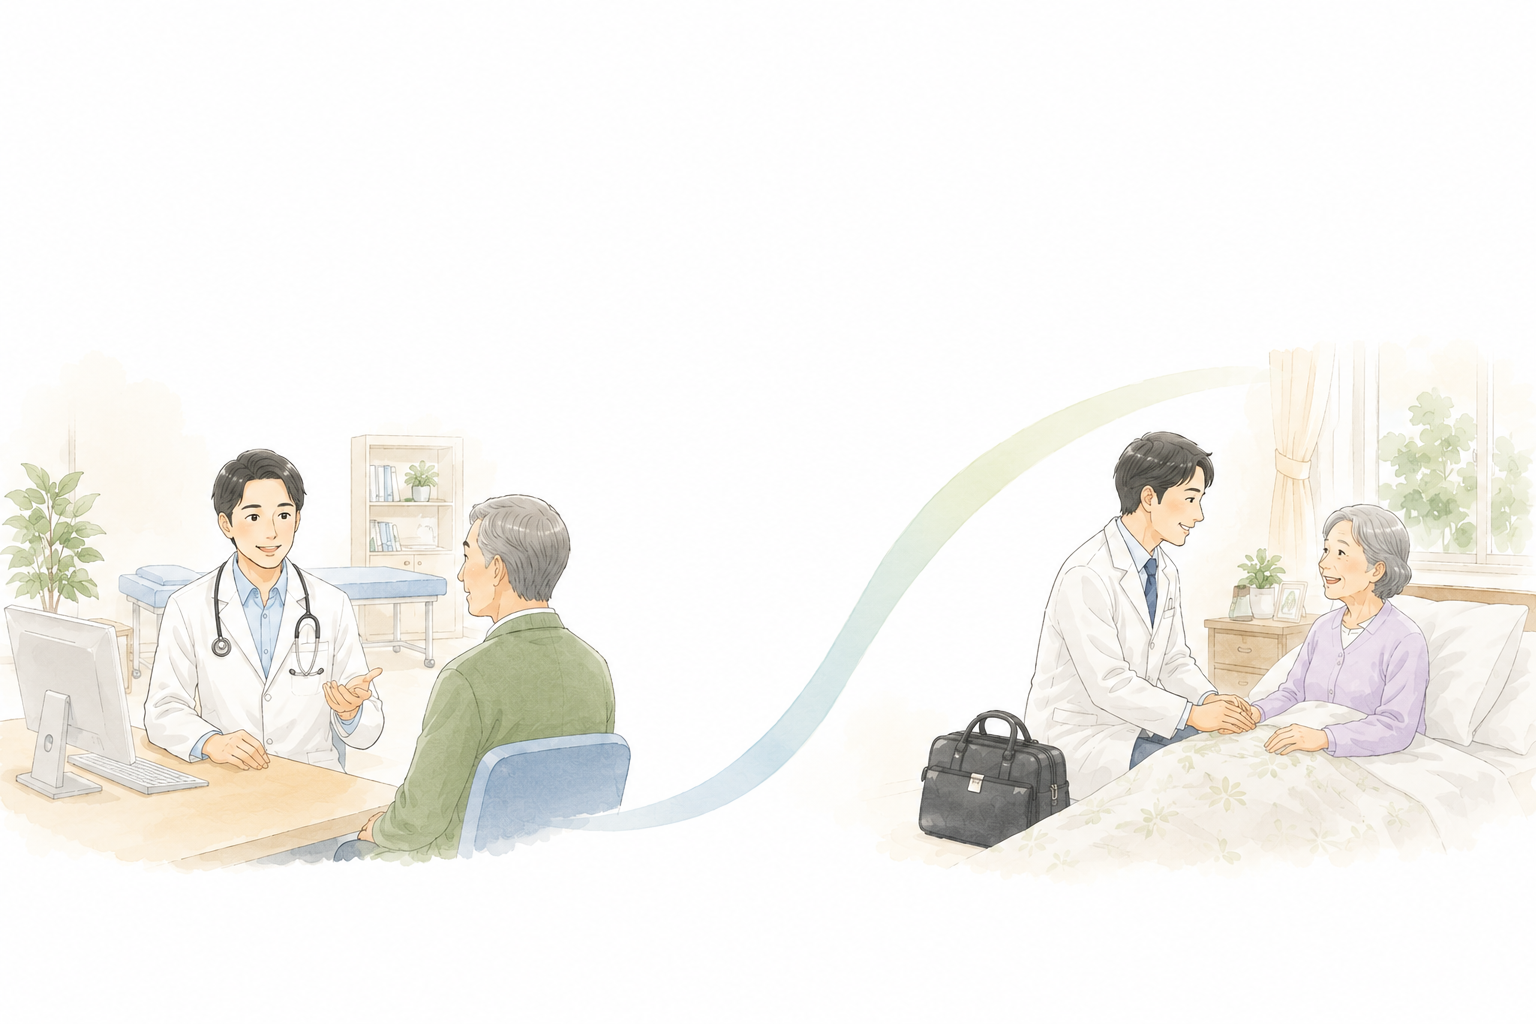
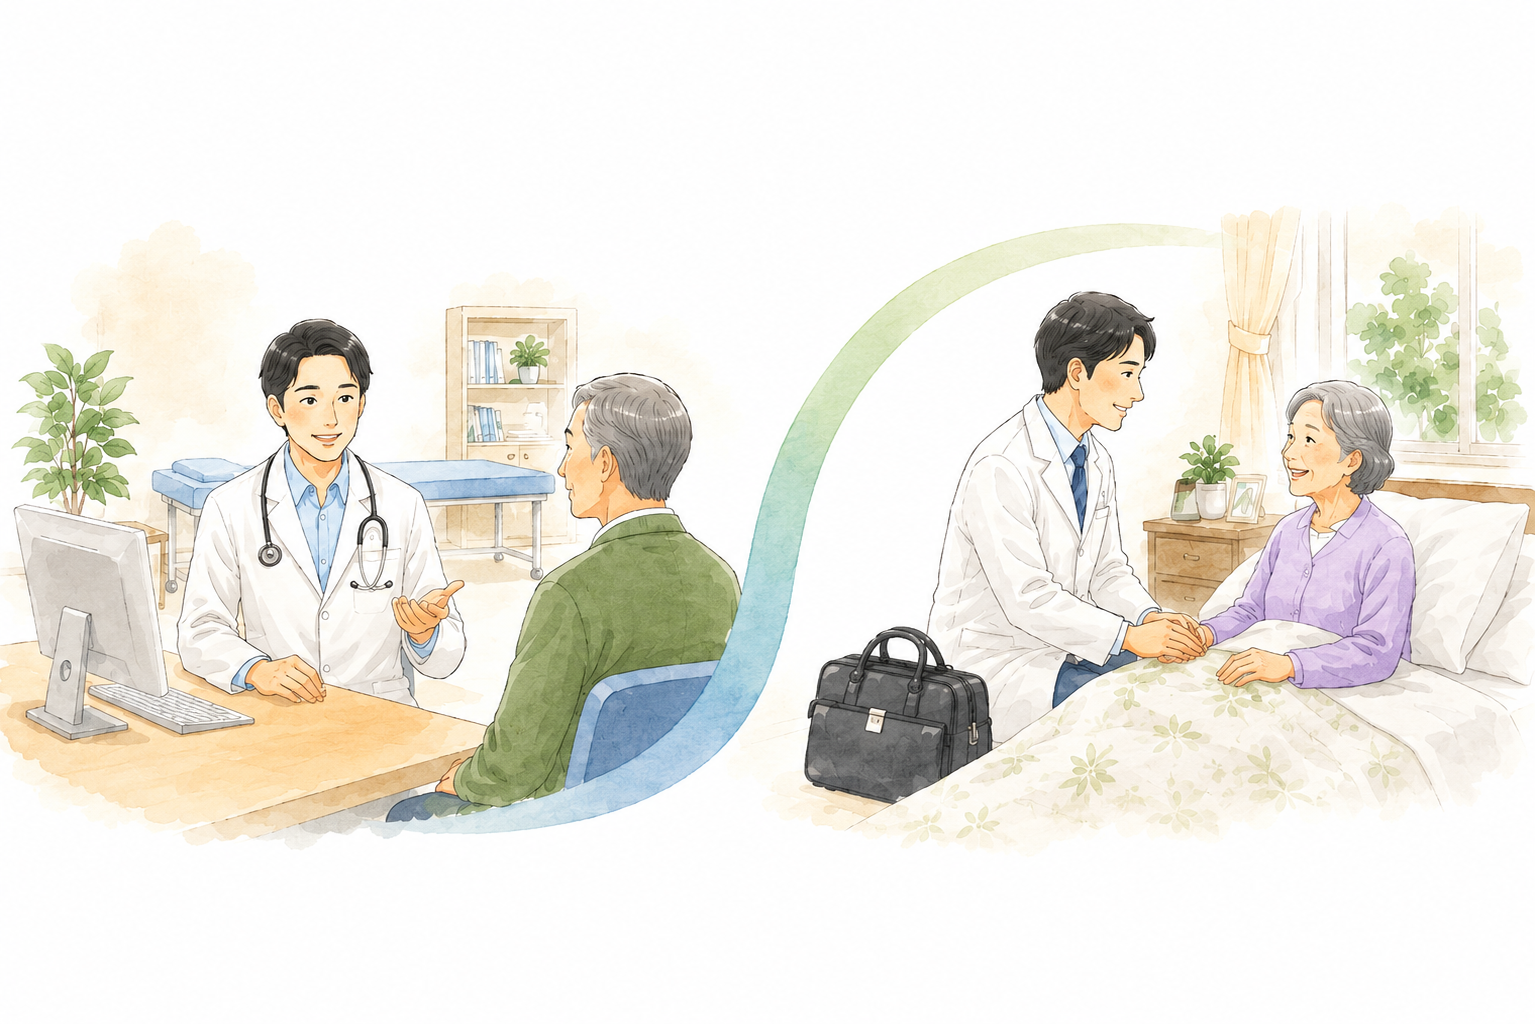
特色カードのイラストを更新版に差し替え、サイズ縮小と文言修正
クリニック外観・生涯を支える医療・内視鏡の3イラストを更新版に差し替え。
写真列の比率を1:1から2:3に変更してイラストの表示サイズと縦幅を縮小し、
スマホでは最大220pxに制限して中央配置に。特色1・3のキャプション文言も
指示どおりに変更した。

diff --git a/assets/css/index.css b/assets/css/index.css
@@ -78,7 +78,7 @@
 
 .feature-block-card {
   display: grid;
-  grid-template-columns: 1fr 1fr;
+  grid-template-columns: 2fr 3fr;
   gap: var(--space-lg);
   align-items: center;
   border: 1px solid var(--color-border);
@@ -86,6 +86,7 @@
   padding: var(--space-lg);
 }
 
+/* イラストが縦に大きくなりすぎないよう、写真列を狭めにして高さを抑える */
 .feature-block-photo {
   width: 100%;
   aspect-ratio: 4 / 3;
@@ -141,14 +142,18 @@
 @media (max-width: 768px) {
   .feature-block-card {
     grid-template-columns: 1fr;
+    padding: var(--space-md);
   }
 
   .feature-block-reverse .feature-block-photo {
     order: 0;
   }
 
-  .feature-block-card {
-    padding: var(--space-md);
+  /* 1カラムになるスマホでは、写真の縦幅が伸びすぎないよう横長気味にする */
+  .feature-block-photo {
+    max-width: 220px;
+    margin: 0 auto;
+    aspect-ratio: 4 / 3;
   }
 }
 

diff --git a/index.php b/index.php
@@ -33,7 +33,7 @@ $shinryo = include __DIR__ . '/data/shinryo.php';
             <h3>地域に密着して35年</h3>
           </div>
           <p class="feature-item-caption">
-            平成3年の開院以来、35年にわたり本牧の地で診療を続けてきました。
+            平成3年の開院以来、本牧の地で診療を続けてきました。
           </p>
         </div>
       </div>
@@ -57,7 +57,7 @@ $shinryo = include __DIR__ . '/data/shinryo.php';
             <h3>幅広い内科診療</h3>
           </div>
           <p class="feature-item-caption">
-            必要時に循環器や糖尿病といった専門外来受診のご案内を行います。
+            必要時に消化器や循環器、糖尿病の専門外来受診が可能です。
           </p>
         </div>
       </div>

diff --git a/CLAUDE.md b/CLAUDE.md
@@ -994,6 +994,29 @@
   行の高さがバッジの40pxに収まっていること)を確認。curlで全ページのPHP警告・
   エラー無しも確認済み
 
+## 特色カードのイラストを更新版に差し替え、サイズ縮小と文言修正
+- 「クリニック外観と生涯を支える医療、内視鏡イラストを変更したので差し替えてください」との
+  依頼を受け、更新版の3枚(クリニック外観イラスト.png・生涯を支えるイラスト.png・
+  内視鏡イラスト.png)をassets/images/feature_chiiki.png・feature_shogai.png・
+  feature_naishikyo.pngに差し替えた（待合室イラストは変更なしのためfeature_naika.pngは
+  そのまま）。クリニック外観イラストは、実際のロゴ・院名・たんぽぽ訪問看護ステーション/
+  ヘルパーチームえがおの看板も描かれた、より作り込まれたバージョンになっている
+- 「イラスト自体は少し小さくして縦幅を取らないように」との要望を受け、
+  `.feature-block-card`のグリッド比率を`1fr 1fr`(写真:テキスト=1:1)から`2fr 3fr`(2:3)に変更。
+  写真列を狭めることで、既存のaspect-ratio(4:3)を保ったまま写真自体の表示サイズ・高さを
+  縮小した(デスクトップで写真高さ 約430px→266px)。スマホ(768px以下、1カラム表示)では
+  写真がさらに間延びしないよう`max-width: 220px; margin: 0 auto;`を追加し、
+  中央に小さく表示されるようにした
+- 「文章を〜に変えてください」との指示で、特色1のキャプションを
+  「平成3年の開院以来、35年にわたり本牧の地で診療を続けてきました。」→
+  「平成3年の開院以来、本牧の地で診療を続けてきました。」に、特色3のキャプションを
+  「必要時に循環器や糖尿病といった専門外来受診のご案内を行います。」→
+  「必要時に消化器や循環器、糖尿病の専門外来受診が可能です。」に変更
+- 確認: JSでデスクトップのグリッド比率(354px/532px)・写真の高さ縮小・4枚すべての
+  画像読み込み完了を確認。モバイル幅(375px)のスクリーンショットで、イラストが小さく
+  中央配置され、キャプション文言が正しく反映されていることを視覚確認済み。curlで
+  全ページのPHP警告・エラー無しも確認済み
+
 ## 未着手・今後の対応(次のステップ)
 - 採用情報ページ(recruit.php)の内容確認・調整: 実際の募集職種、給与額、待遇、院内・スタッフ写真、
   スタッフの声(実在のコメント)への差し替え